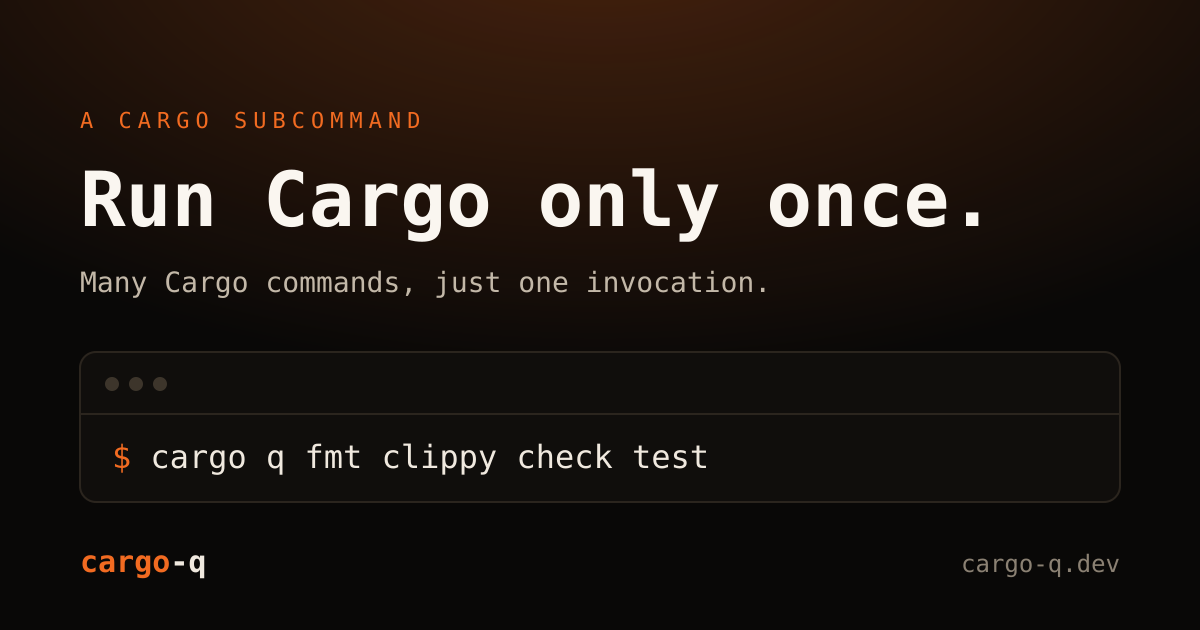
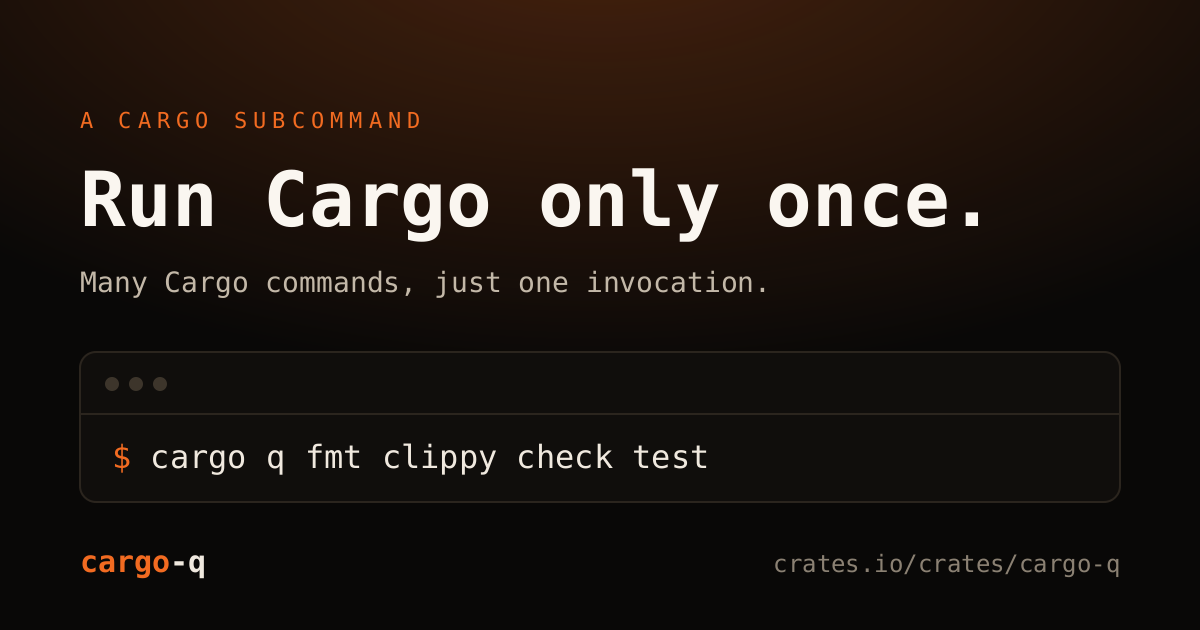
feat(page): the social card points at the crate now
The card named the site in its corner: `cargo-q.dev`. It names the crate
on crates.io now: `crates.io/crates/cargo-q`. The text is right-aligned,
so it grows to the left; the wordmark on the other side of the card is
far enough away that nothing collides.

`public/og.png` is rendered from the SVG again, with the tool the README
names: `rsvg-convert -w 1200 -h 630 og/card.svg -o public/og.png`.

The published card was in DejaVu Sans Mono — the fallback in the SVG's
font list — because the machine that rendered it had no JetBrains Mono.
It stays in that typeface: that is what the card has always looked like,
and the site carries JetBrains Mono as a web font of its own. The README
says so now, so the next person to render the card on a machine that has
JetBrains Mono knows what the difference is. The rasterizer here is a
newer librsvg than the one that made the old PNG, so the edges of the
letters are antialiased a little differently.

diff --git a/CHANGELOG.md b/CHANGELOG.md
@@ -9,6 +9,9 @@
 - `Routine::name` and `Routine::args` read a parsed command: its name and its arguments.
 - `cargo_q::VERSION` is the version of cargo-q the crate was built from.
 
+### Changed
+- The social card of the landing page names the crate on crates.io now, not the site: `crates.io/crates/cargo-q`.
+
 ## [0.7.1] - 2026-11-01
 ### Fixed
 - A verbose child no longer hangs on the terminal. It used to lead a process group of its own, which put it in a background process group as far as the terminal was concerned, so a read from the terminal made the kernel send `SIGTTIN` and stop it: `cargo q -v run` hung on any program that reads stdin, with no error message and no output — the child was stopped and cargo-q waited on it forever. A verbose child now stays in cargo-q's own foreground process group, so the terminal's Ctrl-C reaches it and everything it started, and job control keeps working. The price is that a signal sent to cargo-q alone no longer reaches the children a verbose child started, and such a child cannot be signalled as a group without hitting cargo-q as well, so cargo-q tracks whether a child leads its own group and signals it by pid when it does not: the first interrupt asks it to stop, a later one kills it.

diff --git a/page/README.md b/page/README.md
@@ -85,4 +85,6 @@ rsvg-convert -w 1200 -h 630 og/card.svg -o public/og.png
 ```
 
 The renderer takes the font from the system: the card names JetBrains Mono
-first and falls back to DejaVu Sans Mono.
+first and falls back to DejaVu Sans Mono. The published card is in the
+fallback — the machine that rendered it had no JetBrains Mono — so a machine
+that has JetBrains Mono renders a card in another typeface.
